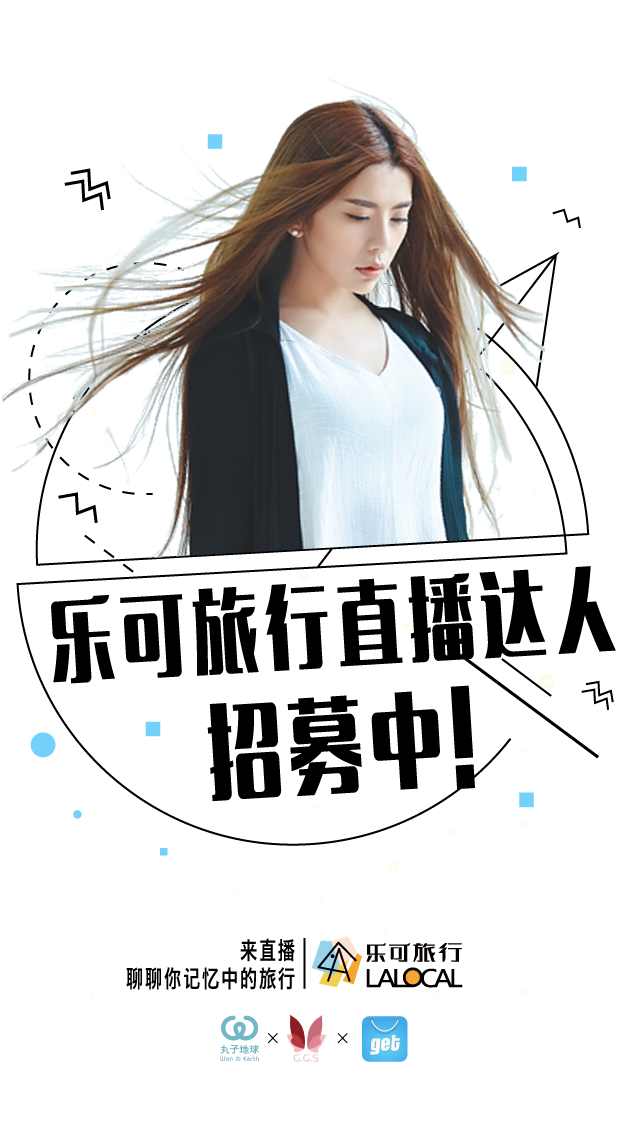
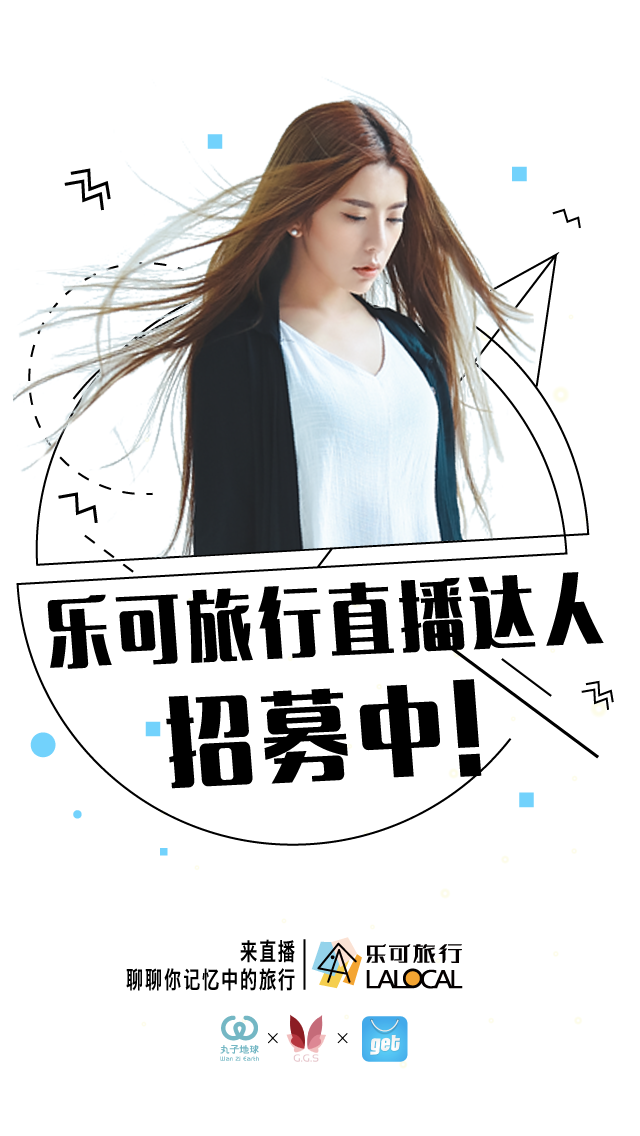
图片样式

diff --git a/public/stylesheets/index.css b/public/stylesheets/index.css
@@ -15,70 +15,43 @@ html,body{
 
 .blue-slide {
 	background: #cce5f6;
-  height: 100%;
 }
 
 .orange-slide {
 	background: #fcb322;
-  height: 100%;
-}
-
-.red-slide {
-	background: #fa6049;
-  height: 100%;
 }
 
 .deep-blue-slide{
   background: #94d3eb;
-  height: 100%;
+}
+
+.red-slide {
+	background: #fa6049;
 }
 
 .green-slide{
   background: #57b557;
-  height: 100%;
 }
 
-.blue-slide img{
-  height: 100%;
-  width: 96%;
-  margin: 0 2%;
-}
-
-.orange-slide img{
-  height: 100%;
-  width: 96%;
-  margin: 0 2%;
-}
-
-.red-slide img{
-  height: 100%;
-  width: 96%;
-  margin: 0 2%;
-}
-
-.deep-blue-slide img{
-  height: 100%;
-  width: 96%;
-  margin: 0 2%;
-}
-
-.green-slide img{
-  height: 100%;
-  width: 96%;
-  margin: 0 2%;
+.swiper-slide{
+	text-align: center;
+	display: table-cell;
+  vertical-align:middle;
+	height: 100%;
+	width: 100%;
 }
 
 .download-btn{
-  position: relative;
-  top: -23%;
-  left: 10%;
-  width: 42%;
-  height: 8%;
+	position: relative;
+	top: -23%;
+	left: -15%;
+	width: 38%;
+	height: 8%;
 	background-color: transparent;
-  border: none;
+	border: none;
 }
+
 .download-btn img{
   width: 100%;
   height: 100%;
-  margin: 0;
 }

diff --git a/public/javascripts/index.js b/public/javascripts/index.js
@@ -3,6 +3,15 @@ $(document).ready(function () {
       loop: false,
       direction: 'vertical',
   });
+
+  var windowWidth = $(window).width();
+  var windowHeight = $(window).height();
+  var ratio = 640/1136;
+  if(windowWidth/windowHeight>ratio){
+    $('.pic-bg').css('height','100%');
+  }else{
+    $('.pic-bg').css('width','100%');
+  }
 })
 
 $('.download-btn').on('click',function () {
